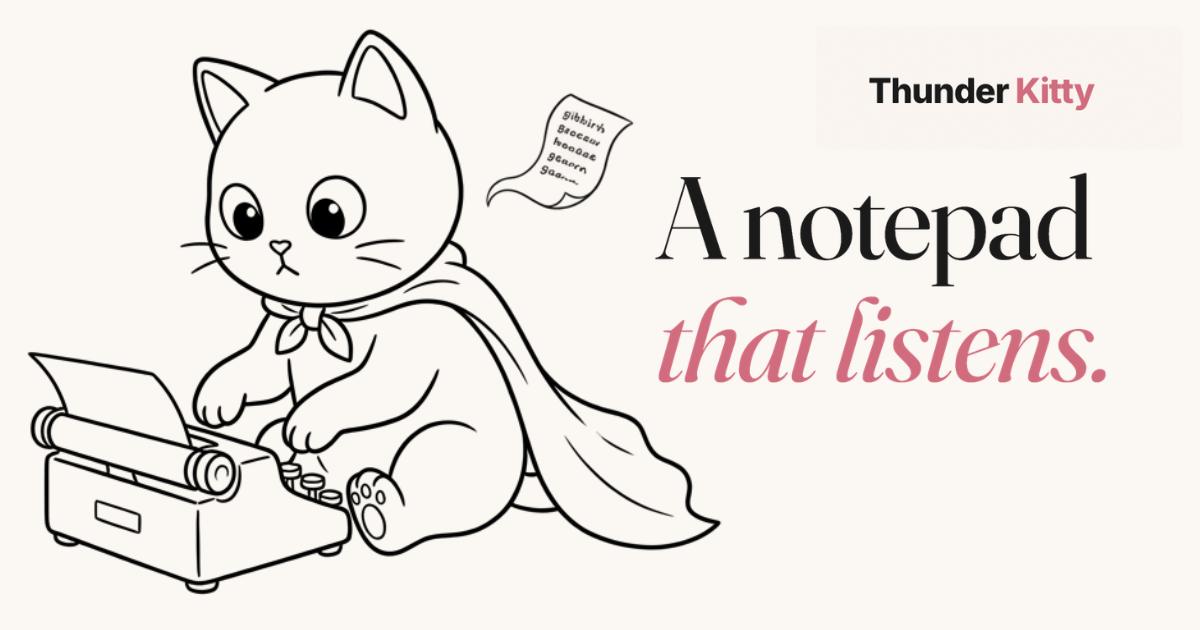
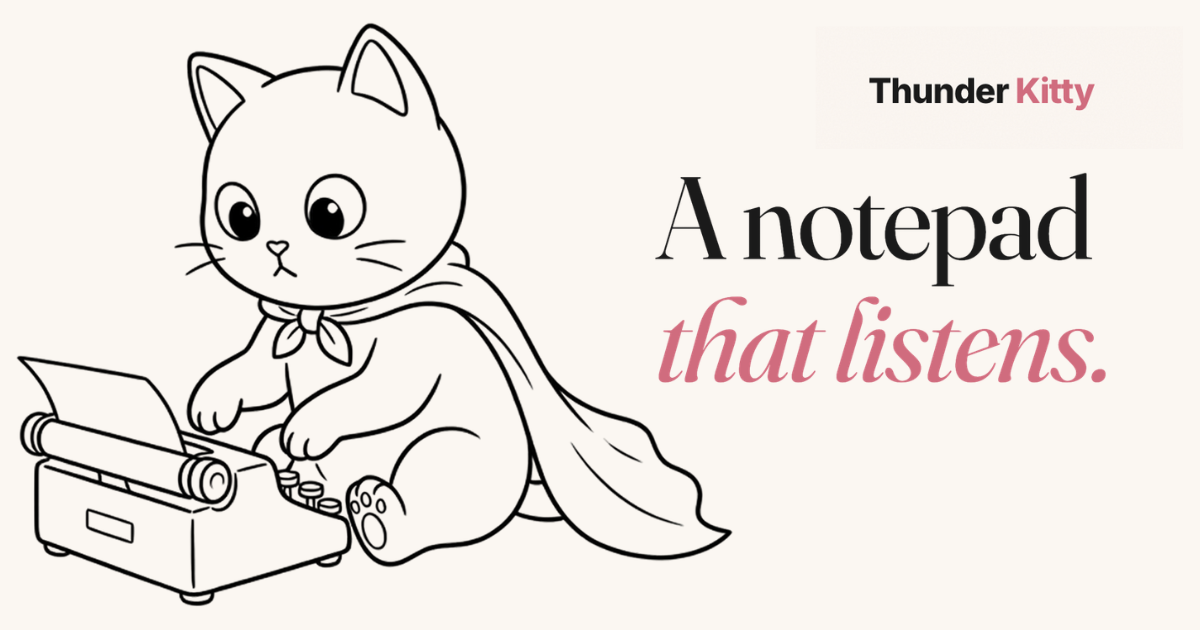
update headline

Changed region(s): [[0.0, 0.0302, 0.6167, 0.9651]]

diff --git a/src/index.html b/src/index.html
@@ -13,10 +13,13 @@ pageCss: home.css
 <section class="hero">
   <div class="container hero__inner">
     <div class="hero__text">
-      <p class="eyebrow eyebrow--italic">Meeting tools for weirdos.</p>
+      <p class="eyebrow eyebrow--italic">*Even in airplane mode</p>
       <h1 class="hero__title">
         A notepad
-        <em>that listens.</em>
+        <em>
+          that listens
+          <span class="hero__asterisk">*</span>
+        </em>
       </h1>
       <p class="hero__sub">
         Record meetings on your Mac. Nothing leaves your Mac.
@@ -928,7 +931,7 @@ pageCss: home.css
 
     <div class="privacy__verify">
       <img
-        src="/images/cat-sleeping.png"
+        src="/images/cat-skeptical.png"
         alt=""
         aria-hidden="true"
         class="privacy__cat"

diff --git a/src/css/pages/home.css b/src/css/pages/home.css
@@ -49,6 +49,15 @@ h3 em {
   letter-spacing: -0.02em;
 }
 
+.hero__title .hero__asterisk {
+  font-size: 0.5em;
+  vertical-align: 0.6em;
+  font-style: italic;
+  color: var(--color-rose);
+  margin-left: 0.05em;
+  font-weight: normal;
+}
+
 .hero__sub {
   font-size: clamp(1.15rem, 1.8vw, 1.35rem);
   color: var(--color-ink-soft);
